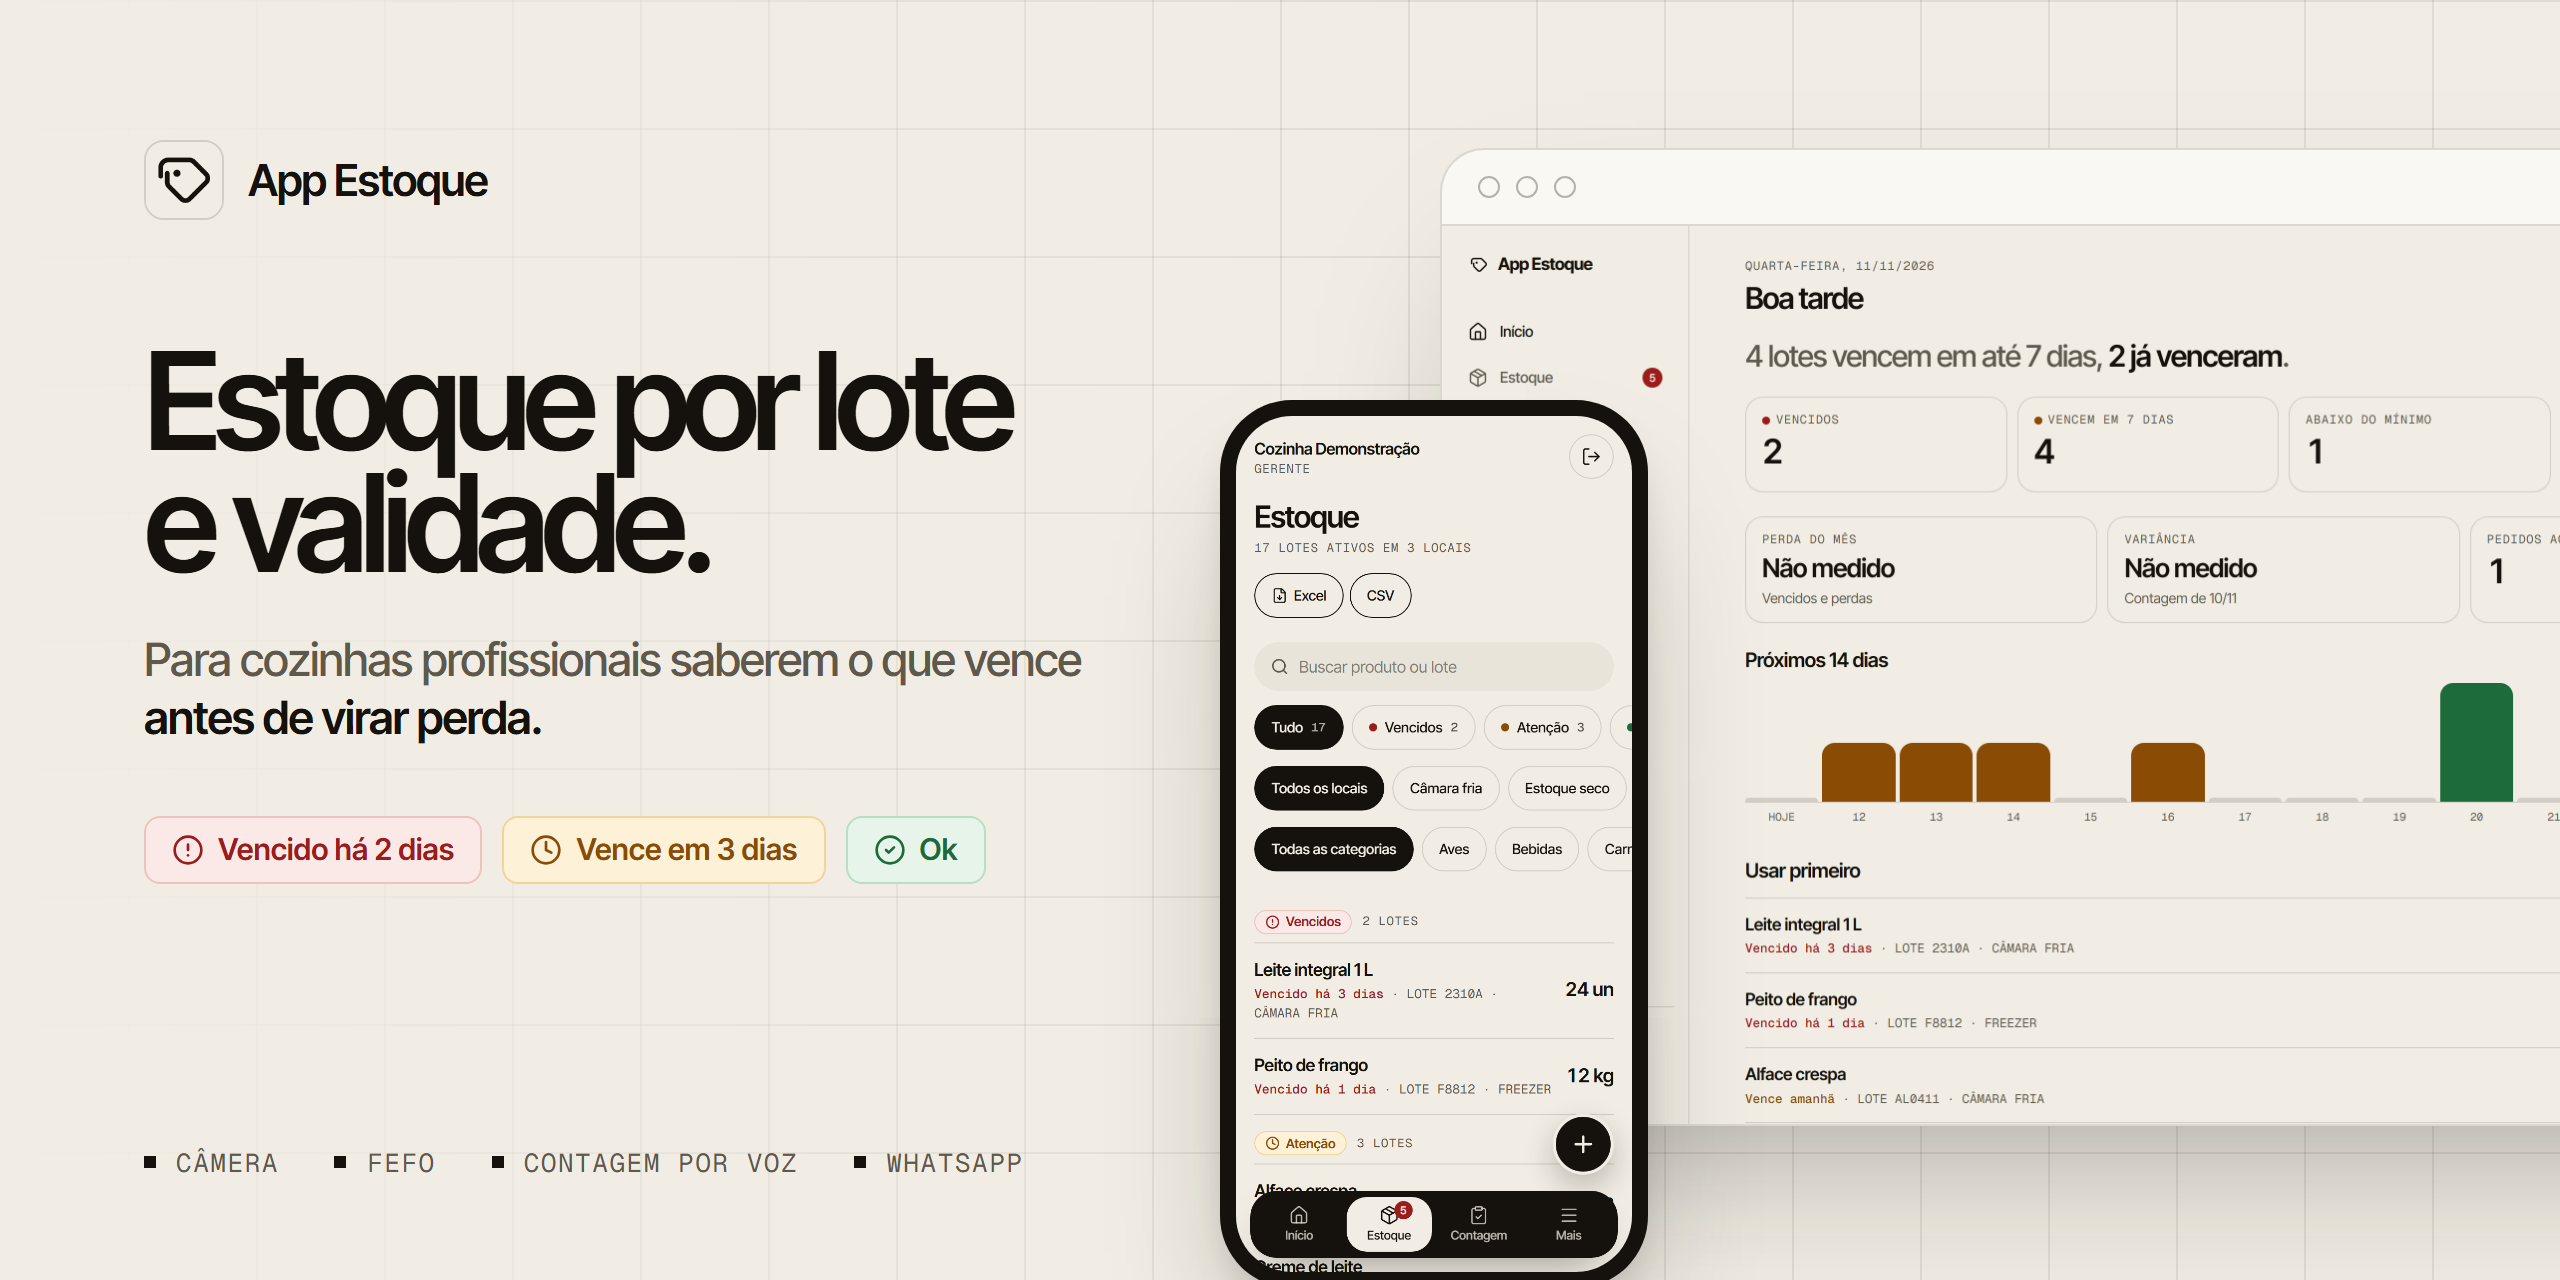
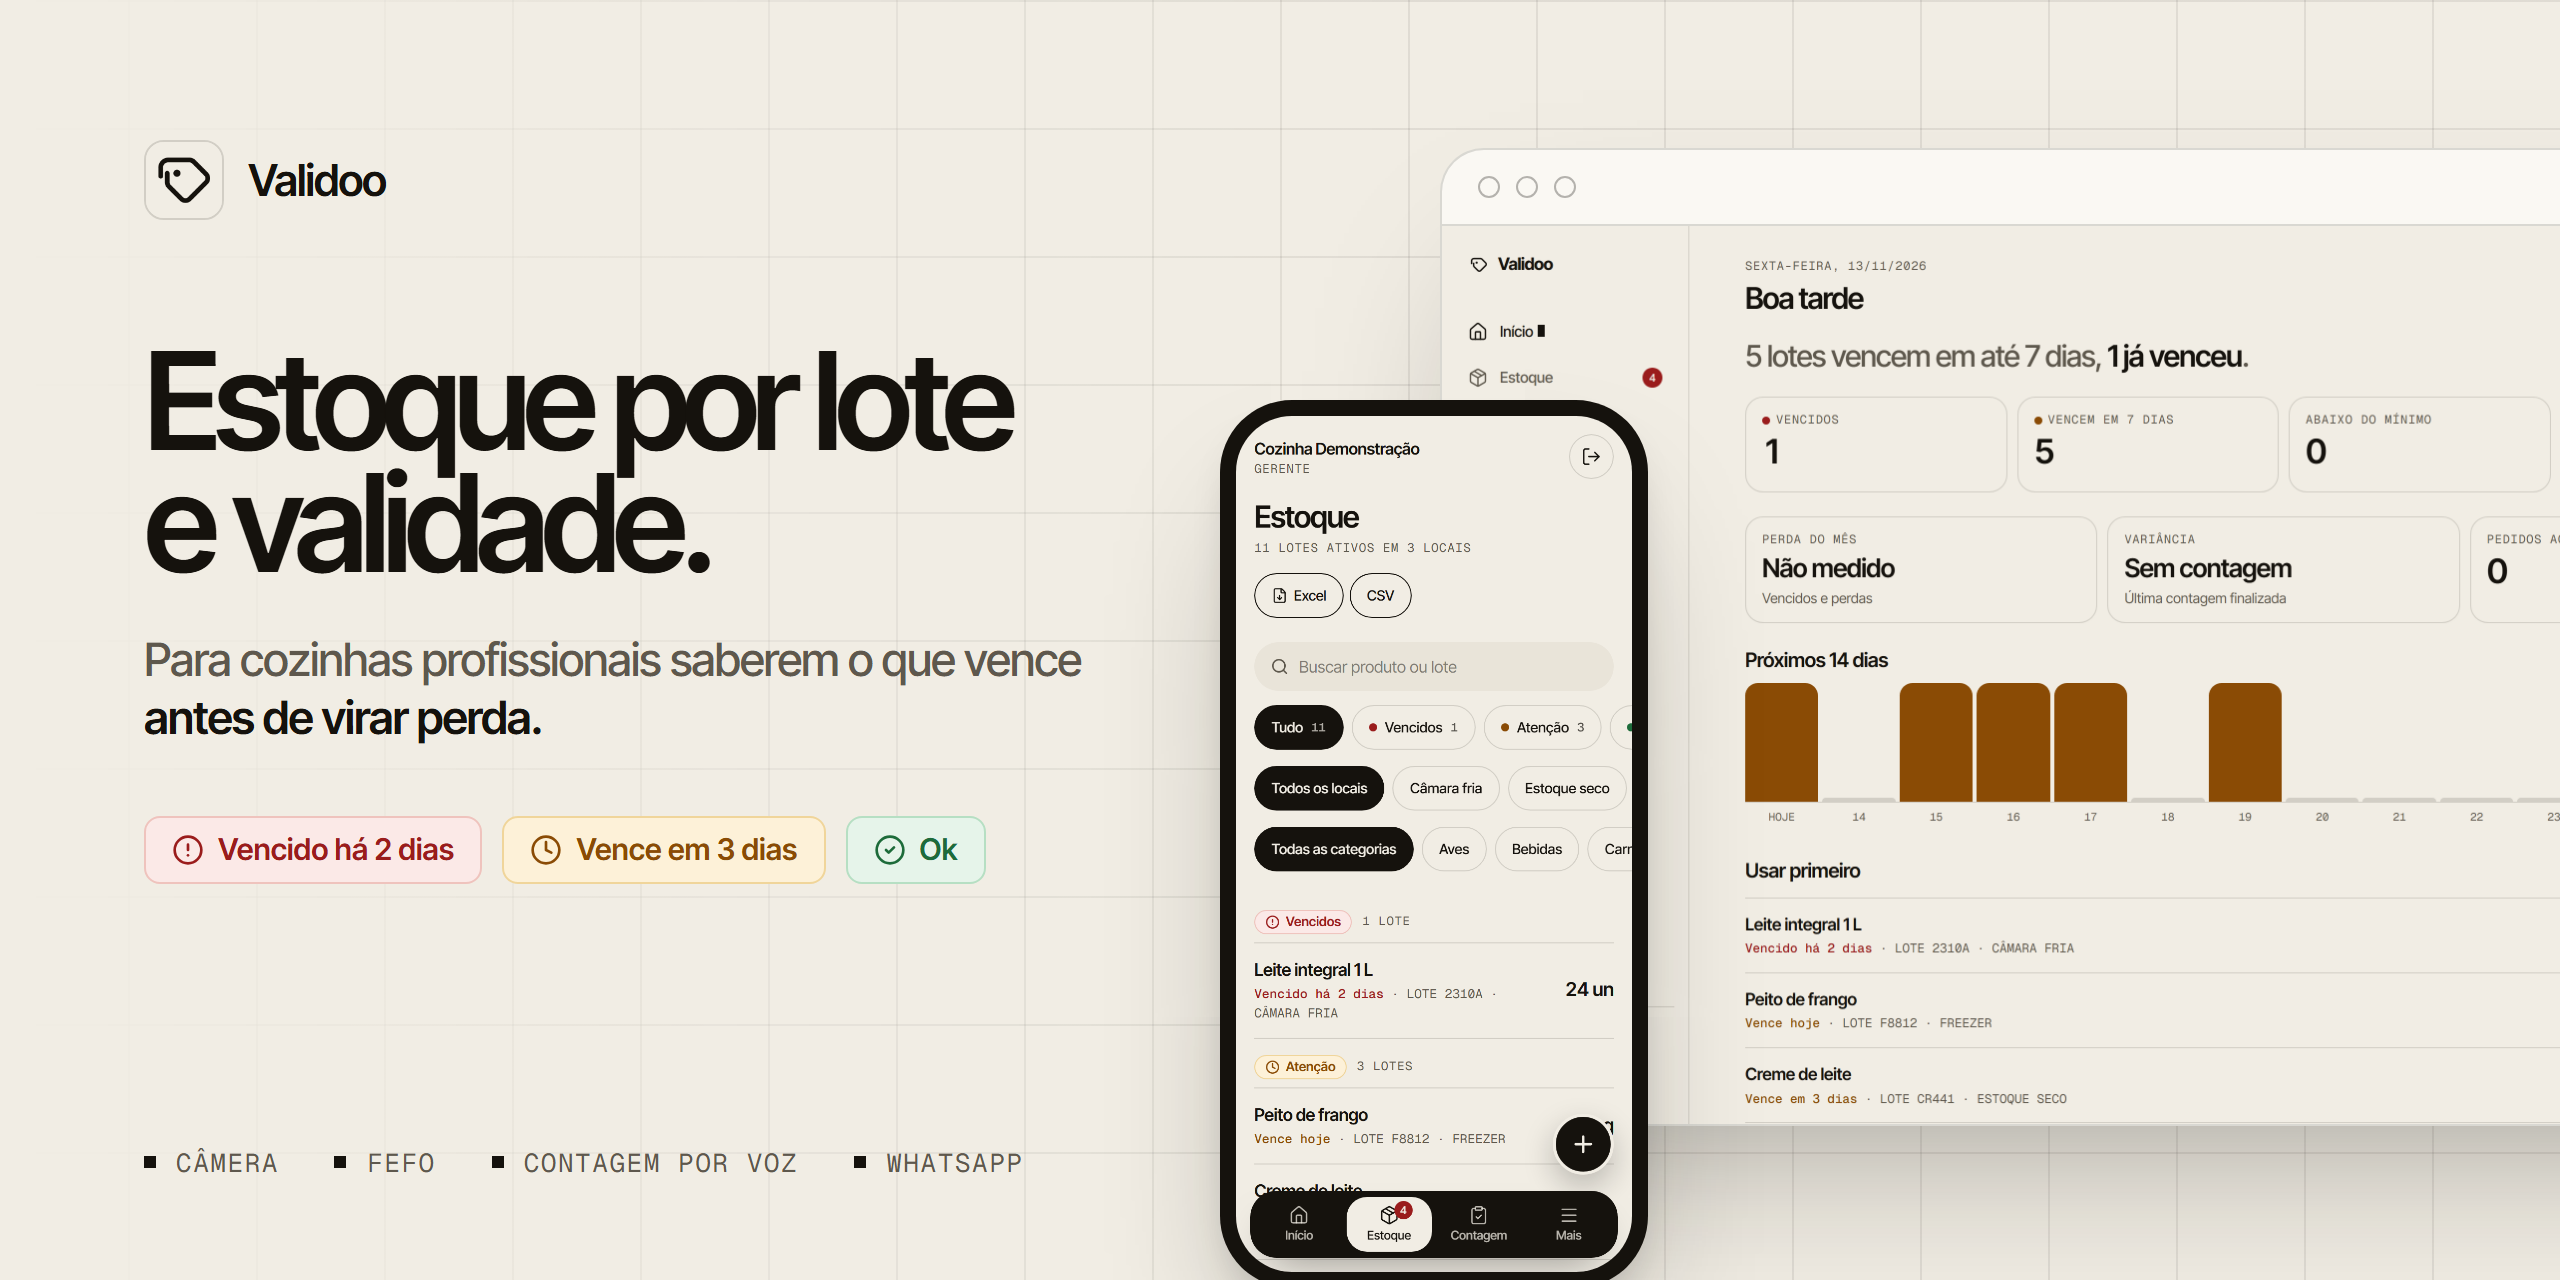
Atualiza a página para o nome Validoo

diff --git a/profile/README.md b/profile/README.md
@@ -1,12 +1,12 @@
 <p align="center">
-  <img src="assets/capa.png" alt="App Estoque: estoque por lote e validade para cozinhas profissionais" width="100%" />
+  <img src="assets/capa.png" alt="Validoo: estoque por lote e validade para cozinhas profissionais" width="100%" />
 </p>
 
-## App Estoque
+## Validoo
 
-O App Estoque controla o estoque de alimentos por lote e validade. Foi pensado para restaurantes, cozinhas industriais, refeitórios e lanchonetes.
+O Validoo controla o estoque de alimentos por lote e validade. Foi pensado para restaurantes, cozinhas industriais, refeitórios e lanchonetes.
 
-Na maioria dessas cozinhas, o estoque ainda fica numa planilha ou no papel. Ninguém sabe ao certo qual lote vence primeiro, o desperdício não é medido e a contagem leva horas. O App Estoque mostra o que precisa ser usado antes de vencer, indica qual lote deve sair primeiro e mostra quanto foi perdido em reais.
+Na maioria dessas cozinhas, o estoque ainda fica numa planilha ou no papel. Ninguém sabe ao certo qual lote vence primeiro, o desperdício não é medido e a contagem leva horas. O Validoo mostra o que precisa ser usado antes de vencer, indica qual lote deve sair primeiro e mostra quanto foi perdido em reais.
 
 Ele roda no navegador do celular e do computador e pode ser instalado na tela inicial, sem passar pela loja de aplicativos.
 
@@ -48,8 +48,8 @@ O projeto passou por testes de invasão ao fim de cada etapa e por um teste comp
 
 ### Situação atual
 
-O App Estoque está em piloto. O código-fonte é privado, e as imagens desta página mostram telas reais com dados fictícios.
+O Validoo está em piloto. O código-fonte é privado, e as imagens desta página mostram telas reais com dados fictícios.
 
 Para conhecer o produto ou pedir uma demonstração, escreva para o e-mail desta organização, que aparece no topo da página.
 
-<sub>© 2026 App Estoque. Todos os direitos reservados.</sub>
+<sub>© 2026 Validoo. Todos os direitos reservados.</sub>

diff --git a/README.md b/README.md
@@ -1,10 +1,10 @@
 # .github
 
-Repositório de perfil da organização **App Estoque**.
+Repositório de perfil da organização **Validoo**.
 
 - `profile/README.md`: página de apresentação exibida na organização.
 - `SECURITY.md`: como relatar uma vulnerabilidade com segurança.
 
 O código-fonte do produto é privado. As imagens mostram telas reais com dados fictícios.
 
-© 2026 App Estoque. Todos os direitos reservados.
+© 2026 Validoo. Todos os direitos reservados.

diff --git a/SECURITY.md b/SECURITY.md
@@ -1,7 +1,7 @@
 # Política de segurança
 
 A segurança dos dados dos nossos clientes vem antes de qualquer funcionalidade. Agradecemos a quem
-nos ajuda a manter o App Estoque seguro.
+nos ajuda a manter o Validoo seguro.
 
 ## Como relatar uma vulnerabilidade
 
